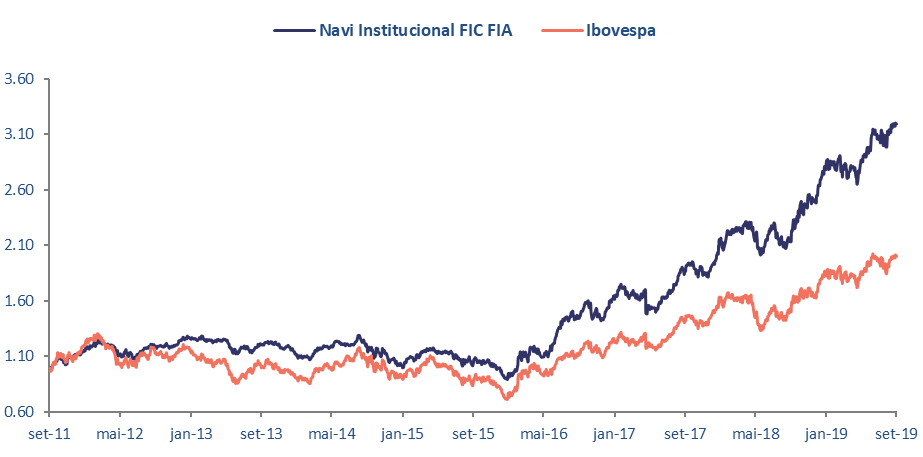
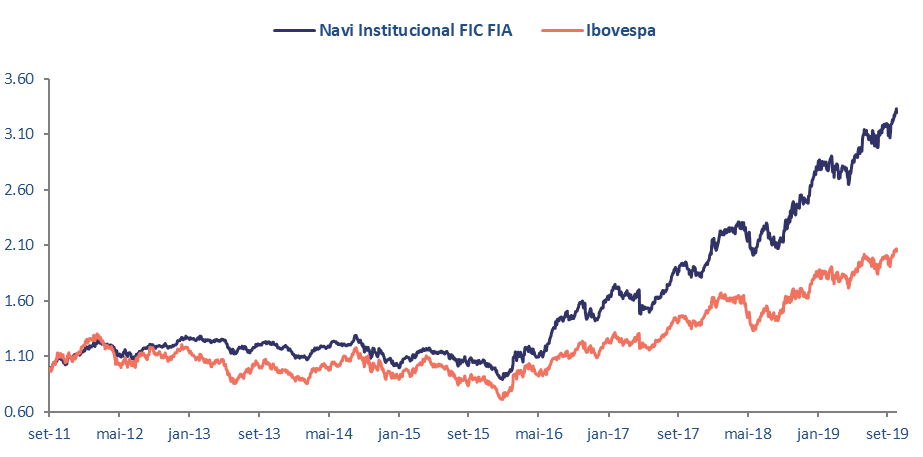
Atualizacao_Site Outubro

diff --git a/index.html b/index.html
@@ -551,18 +551,18 @@
                 <tbody>
                   <tr>
                     <td>Fundo</td>
-                    <td>198,22%	</td>
-                    <td>41,23%	</td>
-                    <td>24,79%	</td>
-                    <td>12,73%	</td>
-                    <td>R$ 1.371M</td>
+                    <td>201,43%	</td>
+                    <td>39,19%	</td>
+                    <td>25,37%	</td>
+                    <td>11,12%	</td>
+                    <td>R$ 937M</td>
                   </tr>
                   <tr>
                     <td>CDI</td>
-                    <td>134,95%	</td>
-                    <td>26,44%	</td>
-                    <td>13,35%	</td>
-                    <td>6,27%	</td>
+                    <td>136,08%	</td>
+                    <td>25,73%	</td>
+                    <td>13,16%	</td>
+                    <td>6,20%	</td>
                     <td>-</td>
                   </tr>
                 </tbody>
@@ -571,7 +571,7 @@
             <div class="row">
               <div class="col-lg-8">
                 <img src="img/graficos/graficoLS.png" alt="" class="">
-                <p>Dados de 30/09/2019 e início do fundo em 29/09/2010.</p>
+                <p>Dados de 31/10/2019 e início do fundo em 29/09/2010.</p>
               </div>
               <div class="col-lg-4">
                 <p>
@@ -637,18 +637,18 @@
                   <tbody>
                     <tr>
                       <td>Fundo</td>
-                      <td>96,90%</td>
+                      <td>102,63%</td>
                       <td>-</td>
-                      <td>62,91%</td>
-                      <td>37,29%</td>
-                      <td>R$ 591M</td>
+                      <td>67,05%</td>
+                      <td>29,21%</td>
+                      <td>R$ 622M</td>
                     </tr>
                     <tr>
                       <td>IMA-B</td>
-                      <td>54,00%</td>
+                      <td>59,18%</td>
                       <td>-</td>
-                      <td>34,72%</td>
-                      <td>31,37%</td>
+                      <td>39,79%</td>
+                      <td>26,74%</td>
                       <td>-</td>
                     </tr>
                   </tbody>
@@ -657,7 +657,7 @@
               <div class="row">
                 <div class="col-lg-8">
                   <img src="img/graficos/graficoLB.png" alt="" class="">
-                  <p>Dados de 30/09/2019 e início do fundo em 27/12/2016.</p>
+                  <p>Dados de 31/10/2019 e início do fundo em 27/12/2016.</p>
                 </div>
                 <div class="col-lg-4">
                   <p>
@@ -724,18 +724,18 @@
                   <tbody>
                     <tr>
                       <td>Fundo</td>
-                      <td>36,20%</td>
+                      <td>37,68%</td>
                       <td>-</td>
-                      <td>28,73%</td>
-                      <td>19,04%</td>
-                      <td>R$ 94M</td>
+                      <td>30,35%</td>
+                      <td>14,64%</td>
+                      <td>R$ 95M</td>
                     </tr>
                     <tr>
                       <td>CDI</td>
-                      <td>17,29%</td>
+                      <td>17,86%</td>
                       <td>-</td>
-                      <td>13,35%</td>
-                      <td>6,27%</td>
+                      <td>13,16%</td>
+                      <td>6,20%</td>
                       <td>-</td>
                     </tr>
                   </tbody>
@@ -744,7 +744,7 @@
               <div class="row">
                 <div class="col-lg-8">
                   <img src="img/graficos/graficoPrev.png" alt="" class="">
-                  <p>Dados de 30/09/2019 e início do fundo em 18/05/2017.</p>
+                  <p>Dados de 31/10/2019 e início do fundo em 18/05/2017.</p>
                 </div>
                 <div class="col-lg-4">
                   <p>
@@ -807,18 +807,18 @@
                   <tbody>
                     <tr>
                       <td>Fundo</td>
-                      <td>209,13%</td>
-                      <td>121,50%</td>
-                      <td>71,52%</td>
-					  <td>47,58%</td>
-                      <td>R$ 1.373M</td>
+                      <td>221,29%</td>
+                      <td>106,05%</td>
+                      <td>74,32%</td>
+					  <td>35,44%</td>
+                      <td>R$ 1.020M</td>
                     </tr>
                     <tr>
                       <td>Ibovespa</td>
-                      <td>132,46%</td>
-					  <td>79,46%</td>
-                      <td>40,99%</td>
-					  <td>32,02%</td>
+                      <td>133,75%</td>
+					  <td>65,15%</td>
+                      <td>44,29%</td>
+					  <td>22,64%</td>
                       <td>-</td>
                     </tr>
                   </tbody>
@@ -827,7 +827,7 @@
               <div class="row">
                 <div class="col-lg-8">
                   <img src="img/graficos/graficoLO.png" alt="" class="">
-                  <p>Dados de 30/09/2019 e início do fundo em 30/09/2011.</p>
+                  <p>Dados de 31/10/2019 e início do fundo em 30/09/2011.</p>
                 </div>
                 <div class="col-lg-4">
                   <p>
